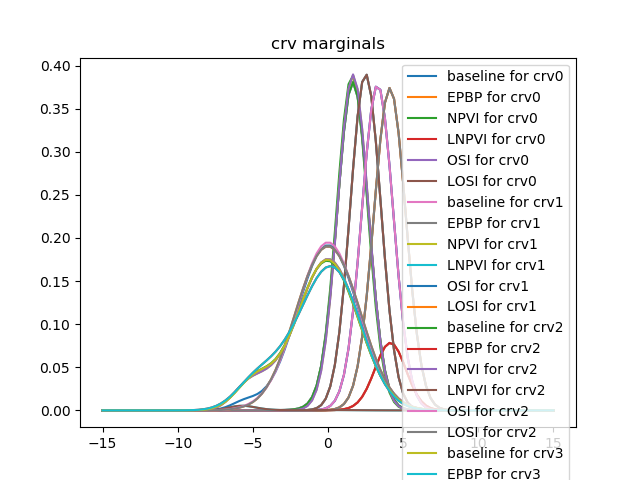
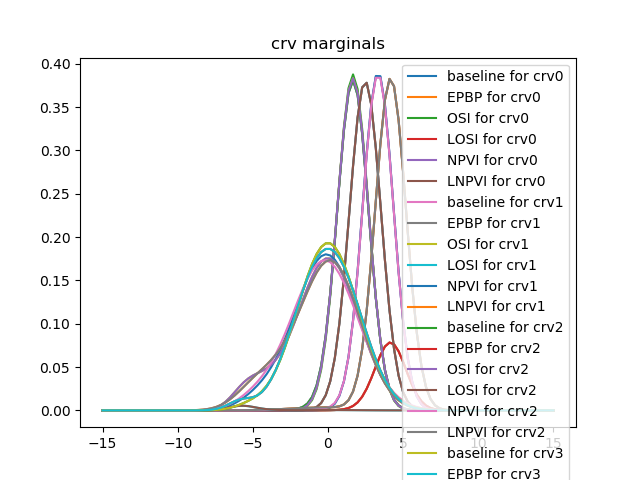
switch the run order of OSI and NPVI, somehow OSI does better than NPVI now
baseline:
{'cpu_time': (1.3418935439999988, 0.2692709140000009),
 'kl_err': (0.0, 0.0),
 'mmap_err': (0.0, 0.0),
 'obj': (-13.34403521455405, 0.0),
 'wall_time': (0.22421205043792725, 0.06380140781402588)}
EPBP:
{'cpu_time': (2.3289080269999998, 0.2487955830000006),
 'kl_err': (0.18642079139806594, 0.0018848105611746352),
 'mmap_err': (0.4947859041702344, 0.0005599544128673806),
 'obj': (-1.0, 0.0),
 'wall_time': (1.754306674003601, 0.249200701713562)}
OSI:
{'cpu_time': (8.619772224, 0.11926064099999856),
 'kl_err': (0.008596087358755207, 0.00019563678249690138),
 'mmap_err': (0.051409233152042884, 0.01519897560598079),
 'obj': (-13.263615691970804, 0.0042705434092713546),
 'wall_time': (8.57448136806488, 0.09847700595855713)}
LOSI:
{'cpu_time': (7.420790755500004, 2.262155075500008),
 'kl_err': (0.18770379341750876, 0.0002470156398034634),
 'mmap_err': (0.5419284398427455, 0.0005683245504203294),
 'obj': (-12.340537462734812, 0.0016430368689412944),
 'wall_time': (7.353074908256531, 2.2348116636276245)}
NPVI:
{'cpu_time': (8.355430547999998, 1.5725895869999995),
 'kl_err': (0.8059811376460272, 0.014826935330289781),
 'mmap_err': (1.0068911385645214, 0.00020226900538378167),
 'obj': (-9.963898171068637, 0.002752342576618716),
 'wall_time': (8.301152467727661, 1.5383803844451904)}
LNPVI:
{'cpu_time': (5.936611340000013, 1.168614531000003),
 'kl_err': (2.6745620355617294, 1.3003158555758896),
 'mmap_err': (2.4074016357449075, 0.8998605204958634),
[…]

diff --git a/osi/hybrid_mln_experiment.py b/osi/hybrid_mln_experiment.py
@@ -89,7 +89,8 @@ record_fields = ['cpu_time',
                  ]
 # algo_names = ['baseline', 'EPBP', 'OSI', 'LOSI']
 # algo_names = ['baseline', 'NPVI', 'OSI', ]
-algo_names = ['baseline', 'EPBP', 'NPVI', 'LNPVI', 'OSI', 'LOSI']
+# algo_names = ['baseline', 'EPBP', 'NPVI', 'LNPVI', 'OSI', 'LOSI']
+algo_names = ['baseline', 'EPBP', 'OSI', 'LOSI', 'NPVI', 'LNPVI']
 # algo_names = ['baseline', 'EPBP']
 # algo_names = ['EPBP']
 # assert algo_names[0] == 'baseline'
